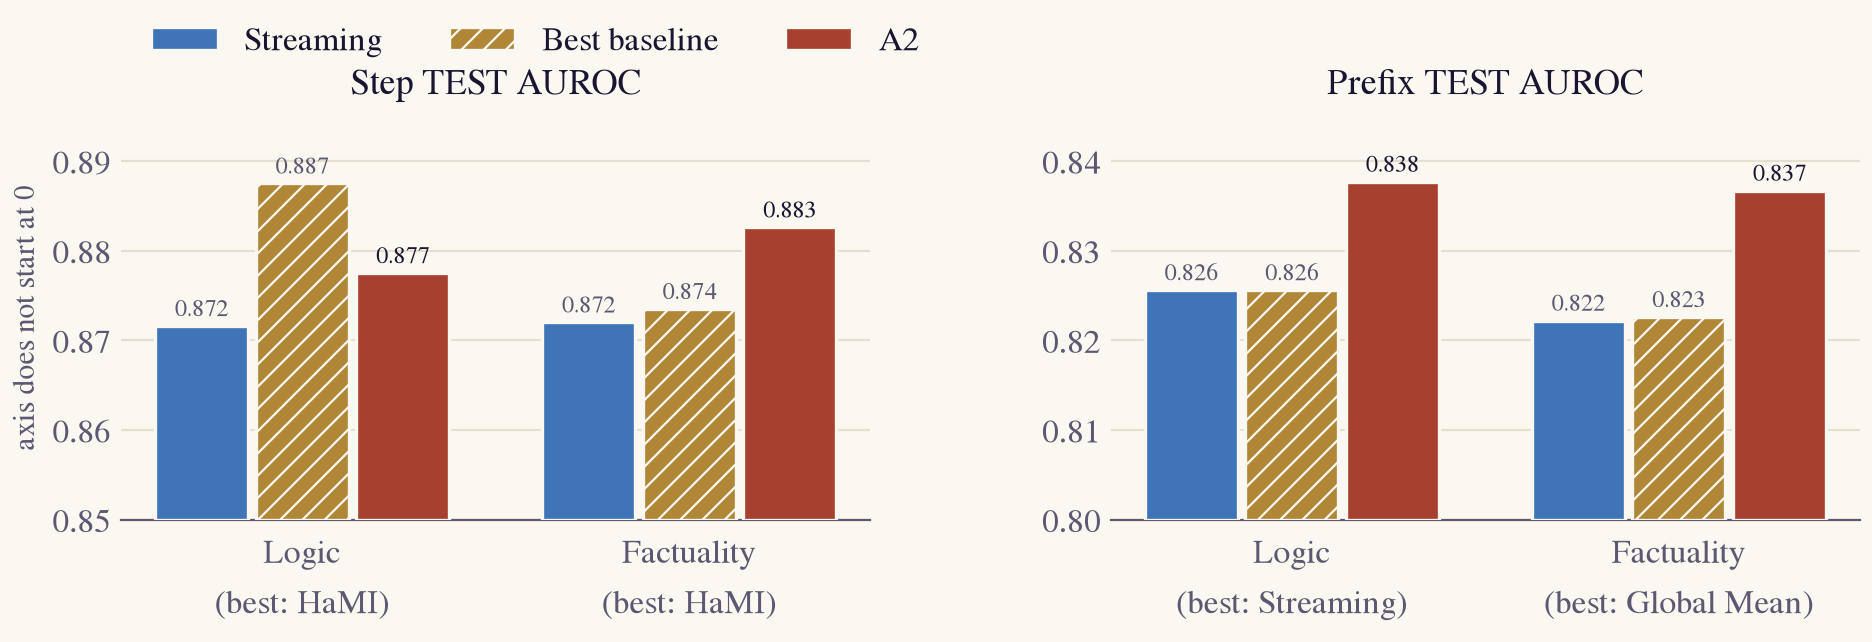
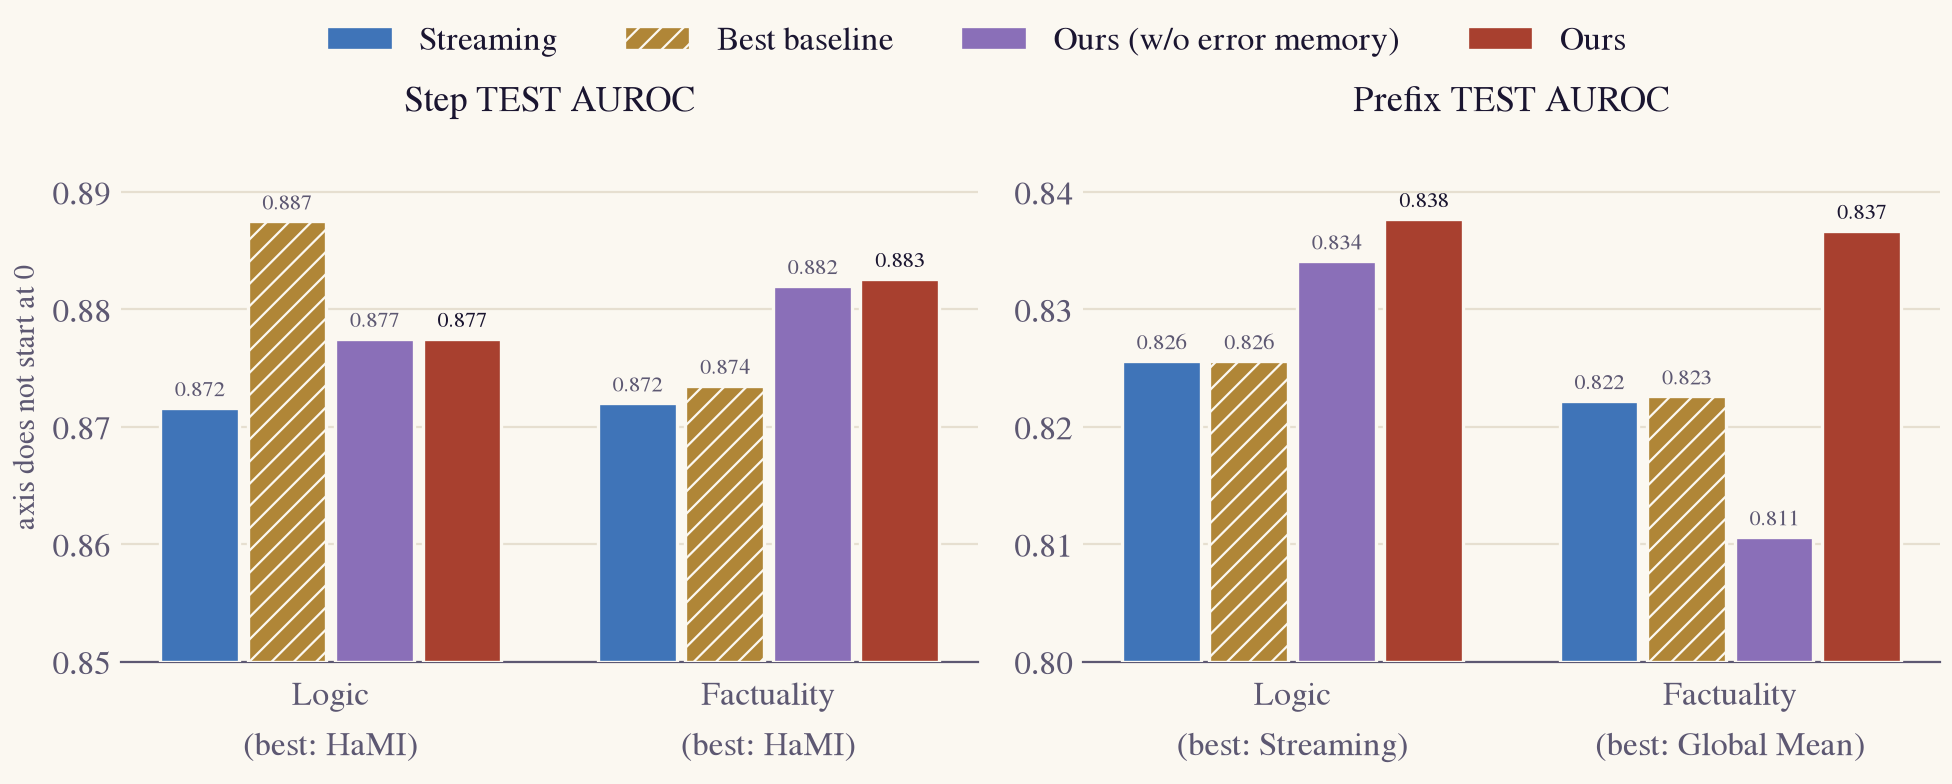
weekly: A1/A2 results and recovery chart in the 2026-11-18 report
Redraw the framework with pi^S notation and one terracotta palette, link the
error-memory experiment from its caption, rename the result section to
Preliminary result, add Ours (w/o error memory) to the Step/Prefix chart, add
the pooled inherited-vs-recovered TEST AUROC chart (Qwen Logic/Factuality),
and merge the To do items. The site builder now lets a paragraph starting with
an arrow continue the preceding figure caption.

diff --git a/weekly/scripts/2026-11-18_dataset_a2.py b/weekly/scripts/2026-11-18_dataset_a2.py
@@ -84,55 +84,55 @@ def dataset(root):
     save(fig, "dataset.png")
 
 
-def node(ax, x, y, w, h, title, sub, ec, fc=RAISE, tc=INK):
-    ax.add_patch(FancyBboxPatch((x - w / 2, y - h / 2), w, h, boxstyle="round,pad=0,rounding_size=0.18", fc=fc, ec=ec, lw=1.6))
-    ax.text(x, y + 0.17, title, ha="center", va="center", fontsize=16, color=tc)
-    ax.text(x, y - 0.2, sub, ha="center", va="center", fontsize=11.5, color=INK2, style="italic")
+def node(ax, x, y, w, h, title, sub, ec):
+    ax.add_patch(FancyBboxPatch((x - w / 2, y - h / 2), w, h, boxstyle="round,pad=0,rounding_size=0.16", fc=RAISE, ec=ec, lw=1.6))
+    ax.text(x, y + 0.15, title, ha="center", va="center", fontsize=16, color=INK)
+    ax.text(x, y - 0.19, sub, ha="center", va="center", fontsize=11.5, color=INK2, style="italic")
 
 
-def arrow(ax, a, b, color=INK2, lw=1.4, rad=0.0):
-    ax.add_patch(FancyArrowPatch(a, b, arrowstyle="-|>", mutation_scale=14, color=color, lw=lw,
-                                 connectionstyle=f"arc3,rad={rad}", shrinkA=2, shrinkB=2))
+def arrow(ax, a, b, color=INK2, lw=1.5):
+    ax.add_patch(FancyArrowPatch(a, b, arrowstyle="-|>", mutation_scale=14, color=color, lw=lw, shrinkA=0, shrinkB=1))
 
 
 def a2():
-    fig, ax = plt.subplots(figsize=(9.0, 4.6), dpi=200)
+    S = "\\pi^{\\mathrm{S}}"
+    DEEP = "#7d2c20"  # darker step of the same terracotta ramp, for the current-step branch
+    fig, ax = plt.subplots(figsize=(8.6, 3.75), dpi=200)
     fig.subplots_adjust(0, 0, 1, 1)
-    ax.set_xlim(0, 10); ax.set_ylim(0, 5.1); ax.axis("off")
-    # reasoning so far: earlier steps shaded by their predicted error probability q_i, current step outlined
+    ax.set_xlim(0.2, 9.8); ax.set_ylim(0.0, 4.2); ax.axis("off")
     tint = LinearSegmentedColormap.from_list("q", ["#f4efe5", ACCENT])
-    blocks = [(0.45, "$S_1$", 0.05), (1.35, "$S_2$", 0.12), (2.25, "$S_3$", 0.85), (3.15, "$S_4$", 0.3),
-              (4.55, "$S_{t-1}$", 0.1)]
+    blocks = [(0.4, "$S_1$", 0.05), (1.25, "$S_2$", 0.12), (2.1, "$S_3$", 0.85), (2.95, "$S_4$", 0.3), (4.25, "$S_{t-1}$", 0.1)]
     for x, lab, v in blocks:
-        ax.add_patch(FancyBboxPatch((x, 0.45), 0.75, 0.55, boxstyle="round,pad=0,rounding_size=0.08", fc=tint(v), ec="none"))
-        ax.text(x + 0.375, 0.725, lab, ha="center", va="center", fontsize=12, color=SURFACE if v > 0.5 else INK2)
-    ax.text(4.22, 0.725, "$\\cdots$", ha="center", va="center", fontsize=14, color=INK2)
-    xt = 7.22
-    ax.add_patch(FancyBboxPatch((xt, 0.45), 0.75, 0.55, boxstyle="round,pad=0,rounding_size=0.08", fc=RAISE, ec=INK, lw=1.6))
-    ax.text(xt + 0.375, 0.725, "$S_t$", ha="center", va="center", fontsize=13, color=INK)
-    ax.text(2.86, 0.18, "earlier steps, shaded by their predicted error $q_i$", fontsize=11, color=INK2, ha="center", va="center")
-    ax.text(xt + 0.375, 0.18, "current step", fontsize=11, color=INK2, ha="center", va="center")
-    # error memory gathers earlier steps in proportion to q_i
-    mem = (2.86, 2.2)
+        ax.add_patch(FancyBboxPatch((x, 0.42), 0.7, 0.5, boxstyle="round,pad=0,rounding_size=0.08", fc=tint(v), ec="none"))
+        ax.text(x + 0.35, 0.67, lab, ha="center", va="center", fontsize=12, color=SURFACE if v > 0.5 else INK2)
+    ax.text(3.95, 0.67, "$\\cdots$", ha="center", va="center", fontsize=14, color=INK2)
+    xt = 7.95
+    ax.add_patch(FancyBboxPatch((xt - 0.35, 0.42), 0.7, 0.5, boxstyle="round,pad=0,rounding_size=0.08", fc=RAISE, ec=DEEP, lw=1.6))
+    ax.text(xt, 0.67, "$S_t$", ha="center", va="center", fontsize=13, color=INK)
+    ax.text(2.65, 0.16, f"earlier steps, shaded by ${S}_i$", fontsize=11, color=INK2, ha="center", va="center")
+    ax.text(xt, 0.16, "current step", fontsize=11, color=INK2, ha="center", va="center")
+    mem = (2.65, 1.75)
     for x, _, v in blocks:
-        ax.add_patch(FancyArrowPatch((x + 0.375, 1.02), (mem[0], mem[1] - 0.33), arrowstyle="-", color=ACCENT,
+        ax.add_patch(FancyArrowPatch((x + 0.35, 0.94), (mem[0], mem[1] - 0.3), arrowstyle="-", color=ACCENT,
                                      lw=0.6 + 3.2 * v, alpha=0.25 + 0.7 * v))
-    ax.add_patch(FancyBboxPatch((mem[0] - 1.45, mem[1] - 0.33), 2.9, 0.66, boxstyle="round,pad=0,rounding_size=0.33",
+    ax.add_patch(FancyBboxPatch((mem[0] - 1.5, mem[1] - 0.3), 3.0, 0.6, boxstyle="round,pad=0,rounding_size=0.3",
                                 fc=ACCENT_SOFT, ec=ACCENT, lw=1.4))
-    ax.text(mem[0], mem[1], "error memory  $g_t=\\Sigma_{i<t}\\, q_i\\, e_i$", ha="center", va="center", fontsize=13, color=INK)
-    # the two questions, one column each
-    kap, stp = (2.86, 3.45), (xt + 0.375, 2.7)
-    node(ax, *kap, 3.7, 0.92, "$\\kappa_t$", "is an earlier error still unresolved?", ec=ACCENT)
-    node(ax, *stp, 3.2, 0.92, "$q_t$", "does this step add a new error?", ec=BLUE)
-    arrow(ax, (mem[0], mem[1] + 0.34), (kap[0], kap[1] - 0.47), color=ACCENT)
-    ax.text(mem[0] + 0.12, 2.76, "+ prefix context", fontsize=10.5, color=INK2, va="center")
-    arrow(ax, (stp[0], 1.02), (stp[0], stp[1] - 0.47), color=BLUE)
-    # composition
-    out = (5.3, 4.62)
-    ax.add_patch(FancyBboxPatch((out[0] - 2.0, out[1] - 0.3), 4.0, 0.6, boxstyle="round,pad=0,rounding_size=0.3", fc=INK, ec=INK))
-    ax.text(*out, "Prefix  $\\pi^{\\mathrm{P}}_t = q_t + (1-q_t)\\,\\kappa_t$", ha="center", va="center", fontsize=14.5, color=SURFACE)
-    arrow(ax, (kap[0], kap[1] + 0.47), (out[0] - 1.6, out[1] - 0.31), color=ACCENT, rad=-0.25)
-    arrow(ax, (stp[0], stp[1] + 0.47), (out[0] + 1.6, out[1] - 0.31), color=BLUE, rad=0.25)
+    ax.text(*mem, f"error memory  $g_t=\\Sigma_{{i<t}}\\, {S}_i\\, e_i$", ha="center", va="center", fontsize=13, color=INK)
+    kap, stp = (2.65, 2.85), (xt, 2.85)
+    node(ax, *kap, 3.5, 0.82, "$\\kappa_t$", "is an earlier error still unresolved?", ec=ACCENT)
+    node(ax, *stp, 3.3, 0.82, f"${S}_t$", "does this step add a new error?", ec=DEEP)
+    arrow(ax, (mem[0], mem[1] + 0.31), (kap[0], kap[1] - 0.42), color=ACCENT)
+    ax.text(mem[0] + 0.1, 2.235, "+ prefix context", fontsize=10.5, color=INK2, va="center")
+    arrow(ax, (xt, 0.94), (stp[0], stp[1] - 0.42), color=DEEP)
+    # composition: arrows enter the two sides of the output box
+    out_l, out_r, out_y = 3.95, 6.65, 3.85
+    ax.add_patch(FancyBboxPatch((out_l, out_y - 0.27), out_r - out_l, 0.54, boxstyle="round,pad=0,rounding_size=0.27", fc=INK, ec=INK))
+    ax.text((out_l + out_r) / 2, out_y, f"Prefix  $\\pi^{{\\mathrm{{P}}}}_t = {S}_t + (1-{S}_t)\\,\\kappa_t$", ha="center",
+            va="center", fontsize=13.5, color=SURFACE)
+    for (sx, color, ang) in ((kap[0], ACCENT, 0), (stp[0], DEEP, 180)):
+        ax.add_patch(FancyArrowPatch((sx, 3.27), (out_l if ang == 0 else out_r, out_y), arrowstyle="-|>", mutation_scale=14,
+                                     color=color, lw=1.5, shrinkA=0, shrinkB=1,
+                                     connectionstyle=f"angle,angleA=90,angleB={ang},rad=12"))
     save(fig, "a2_framework.png")
 
 

diff --git a/weekly/scripts/2026-11-18_a2.py b/weekly/scripts/2026-11-18_a2.py
@@ -1,8 +1,9 @@
 #!/usr/bin/env python3
-"""A2 Step/Prefix comparison figure for the 2026-11-18 weekly report (the schematic is in 2026-11-18_dataset_a2.py).
+"""A2 comparison figures for the 2026-11-18 weekly report (the schematic is in 2026-11-18_dataset_a2.py).
 
 Numbers are copied from published TEST results in this repository (Qwen3.8-27B, single seed 42, VAL-selected layer):
-- A2 fixed: experiments/qwen_c18_a2_series_20261115/README.md (Frozen TEST comparison).
+- A1 and A2 (fixed readouts): experiments/qwen_c18_a2_series_20261115/README.md (Frozen TEST comparison) and
+  experiments/qwen_c18_error_memory_20261114/README.md (pooled TEST Prefix recovery AUROC).
 - Streaming and best baseline: experiments/qwen_step_only_learnable_20261115/README.md (Step) and
   experiments/qwen_baseline_prefix_decomposition_20261116/README.md (Prefix).
 Run from the repository root:  python weekly/scripts/2026-11-18_a2.py
@@ -19,7 +20,7 @@ from matplotlib.patches import FancyArrowPatch, FancyBboxPatch
 OUT = Path("weekly/assets/2026-11-18")
 SURFACE, RAISE, INK, INK2, LINE = "#fbf8f1", "#fffdf8", "#1a1530", "#5d5872", "#d9cfbd"
 NEW, INHERITED, CLEAN_FILL = "#a8402f", "#e3b7a6", "#efe8da"
-STREAMING, BASELINE, OURS = "#3f74b8", "#b08637", "#a8402f"
+STREAMING, BASELINE, ABLATION, OURS = "#3f74b8", "#b08637", "#8a6fb8", "#a8402f"  # validated on SURFACE
 plt.rcParams.update({"font.family": "STIXGeneral", "font.size": 12, "mathtext.fontset": "stix", "hatch.linewidth": 0.8,
                      "hatch.color": SURFACE, "figure.facecolor": SURFACE, "axes.facecolor": SURFACE,
                      "savefig.facecolor": SURFACE})
@@ -42,39 +43,59 @@ def save(fig, name):
     print("wrote", OUT / name)
 
 
+SERIES = [("Streaming", STREAMING, ""), ("Best baseline", BASELINE, "///"),
+          ("Ours (w/o error memory)", ABLATION, ""), ("Ours", OURS, "")]
+
+
+def bars(ax, x, values, lo, hi, best_name, domains):
+    w = 0.2
+    for k, ((name, color, hatch), vals) in enumerate(zip(SERIES, values)):
+        pos = x + (k - 1.5) * w
+        ax.bar(pos, np.array(vals) - lo, w - 0.02, bottom=lo, color=color, hatch=hatch, edgecolor=SURFACE,
+               linewidth=1.2, label=name, zorder=3)
+        for p, v in zip(pos, vals):
+            ax.text(p, v + (hi - lo) * 0.012, f"{v:.3f}", ha="center", va="bottom", fontsize=8,
+                    color=INK if name == "Ours" else INK2)
+    ax.set_xticks(x, [f"{d}\n(best: {b})" for d, b in zip(domains, best_name)], color=INK)
+    ax.set_ylim(lo, hi)
+    ax.tick_params(colors=INK2, length=0)
+    ax.grid(axis="y", color="#e6dfd0", linewidth=0.8, zorder=0)
+    for side in ("top", "right", "left"):
+        ax.spines[side].set_visible(False)
+    ax.spines["bottom"].set_color(INK2)
+
+
 def results():
-    domains = ["Logic", "Factuality"]
-    panels = [
-        ("Step", [0.8716, 0.8720], [0.8875, 0.8735], ["HaMI", "HaMI"], [0.8775, 0.8826], (0.85, 0.895)),
-        ("Prefix", [0.8256, 0.8222], [0.8256, 0.8226], ["Streaming", "Global Mean"], [0.8377, 0.8367], (0.80, 0.845)),
+    domains = ["Logic", "Factuality"]; x = np.arange(2)
+    panels = [  # Streaming, best baseline, A1, A2
+        ("Step", [[0.8716, 0.8720], [0.8875, 0.8735], [0.8775, 0.8820], [0.8775, 0.8826]], ["HaMI", "HaMI"], (0.85, 0.895)),
+        ("Prefix", [[0.8256, 0.8222], [0.8256, 0.8226], [0.8341, 0.8106], [0.8377, 0.8367]], ["Streaming", "Global Mean"], (0.80, 0.845)),
     ]
-    fig, axes = plt.subplots(1, 2, figsize=(9.6, 3.7), dpi=200)
-    x = np.arange(len(domains)); w = 0.26
-    for ax, (title, stream, best, best_name, a2, (lo, hi)) in zip(axes, panels):
-        for k, (name, vals, color, hatch) in enumerate([("Streaming", stream, STREAMING, ""),
-                                                        ("Best baseline", best, BASELINE, "///"),
-                                                        ("A2", a2, OURS, "")]):
-            pos = x + (k - 1) * w
-            ax.bar(pos, np.array(vals) - lo, w - 0.02, bottom=lo, color=color, hatch=hatch, edgecolor=SURFACE,
-                   linewidth=1.2, label=name, zorder=3)
-            for p, v in zip(pos, vals):
-                ax.text(p, v + (hi - lo) * 0.01, f"{v:.3f}", ha="center", va="bottom", fontsize=8.5,
-                        color=INK if name == "A2" else INK2)
-        ax.set_xticks(x, [f"{d}\n(best: {b})" for d, b in zip(domains, best_name)], color=INK)
-        ax.set_ylim(lo, hi)
+    fig, axes = plt.subplots(1, 2, figsize=(10.0, 3.8), dpi=200)
+    for ax, (title, values, best_name, (lo, hi)) in zip(axes, panels):
+        bars(ax, x, values, lo, hi, best_name, domains)
         ax.set_title(f"{title} TEST AUROC", fontsize=13, color=INK, pad=8)
-        ax.tick_params(colors=INK2, length=0)
-        ax.grid(axis="y", color="#e6dfd0", linewidth=0.8, zorder=0)
-        for s in ("top", "right", "left"):
-            ax.spines[s].set_visible(False)
-        ax.spines["bottom"].set_color(INK2)
     axes[0].set_ylabel("axis does not start at 0", color=INK2, fontsize=10.5)
-    axes[0].legend(ncol=3, frameon=False, loc="upper left", bbox_to_anchor=(0, 1.3), labelcolor=INK)
+    handles, labels = axes[0].get_legend_handles_labels()
+    fig.legend(handles, labels, ncol=4, frameon=False, loc="upper center", bbox_to_anchor=(0.5, 1.07), labelcolor=INK)
     fig.tight_layout()
     save(fig, "a2_results.png")
+
+
+def recovery():
+    domains = ["Logic", "Factuality"]; x = np.arange(2)
+    values = [[0.7020, 0.7205], [0.7020, 0.7233], [0.7073, 0.6895], [0.7204, 0.7476]]
+    fig, ax = plt.subplots(figsize=(10.0, 3.6), dpi=200)
+    bars(ax, x, values, 0.65, 0.76, ["Streaming", "Global Mean"], domains)
+    ax.set_ylabel("pooled TEST AUROC (axis starts at 0.65)", color=INK2, fontsize=10.5)
+    fig.tight_layout(rect=(0, 0, 1, 0.88))
+    handles, labels = ax.get_legend_handles_labels()
+    fig.legend(handles, labels, ncol=4, frameon=False, loc="upper center", bbox_to_anchor=(0.53, 1.0), labelcolor=INK)
+    save(fig, "a2_recovery.png")
 
 
 INH_TEXT = "#b0664f"
 
 if __name__ == "__main__":
     results()
+    recovery()

diff --git a/site/build.py b/site/build.py
@@ -82,6 +82,8 @@ def rewrite(out: str) -> str:
     """Figures with captions, repo links to GitHub, assets relative to the post page, scrollable tables."""
     out = re.sub(r'<p><img alt="([^"]*)" src="([^"]+)" ?/?></p>',
                  r'<figure><img alt="\1" src="\2" loading="lazy"><figcaption>\1</figcaption></figure>', out)
+    # a paragraph starting with "↳ " right after a figure continues its caption (links allowed)
+    out = re.sub(r'</figcaption></figure>\s*<p>↳ (.*?)</p>', r' \1</figcaption></figure>', out, flags=re.S)
     out = re.sub(r'(src|href)="assets/', r'\1="../assets/', out)
     out = re.sub(r'href="\.\./([^"]+)"', lambda m: f'href="{REPO}/blob/main/{m.group(1)}"', out)
     out = out.replace("<table>", '<div class="table-wrap"><table>').replace("</table>", "</table></div>")

diff --git a/weekly/2026-11-18.md b/weekly/2026-11-18.md
@@ -53,15 +53,19 @@ The Answer builds on the final Prefix state, with $`\alpha_c`$ the probability o
 <!-- kicker: The **framework** -->
 ## §4 Method
 
-![A2. The Step detector asks whether the current step adds a new error; κ asks whether an earlier error is still unresolved, reading the prefix together with an error memory that weights earlier steps by their predicted Step probabilities.](assets/2026-11-18/a2_framework.png)
+![Our framework. The Step detector asks whether the current step adds a new error; κ asks whether an earlier error is still unresolved, reading the prefix together with an error memory that weights earlier steps by their predicted Step probabilities.](assets/2026-11-18/a2_framework.png)
+
+↳ Method details: [error-memory experiment](https://github.com/pILLOW-1/streaming_hd/blob/main/experiments/qwen_c18_error_memory_20261114/README.md).
 
 <!-- kicker: The **numbers** -->
-## §5 Result
+## §5 Preliminary result
 
-![Step and Prefix TEST AUROC on Qwen3.8-27B. The best baseline is the highest published AUROC in each domain and level. Single seed, layer selected on VAL.](assets/2026-11-18/a2_results.png)
+![Step and Prefix TEST AUROC on Qwen3.8-27B. Ours (w/o error memory) drops the error-memory term. The best baseline is the highest published AUROC in each domain and level. Single seed, layer selected on VAL.](assets/2026-11-18/a2_results.png)
+
+![Pooled TEST AUROC between inherited positions (no new error, Prefix erroneous) and recovered positions (no new error, Prefix clean after an earlier error), ranked by the final Prefix score across trajectories.](assets/2026-11-18/a2_recovery.png)
 
 <!-- kicker: The **plan** -->
 ## §6 To do
 
-- Building on the A2 framework, try different read-outs for the Step and Prefix inputs (e.g. last token).
-- Building on the A2 framework, explore κ designs: how κ is supervised and what the error memory stores.
+- Building on the current framework, explore 1) different read-outs for the Step and Prefix inputs (e.g. last token) and 2) κ designs, including how κ is supervised and what the error memory stores.
+- Run the current framework on the other domains (Science, Math, Multi-hop).
